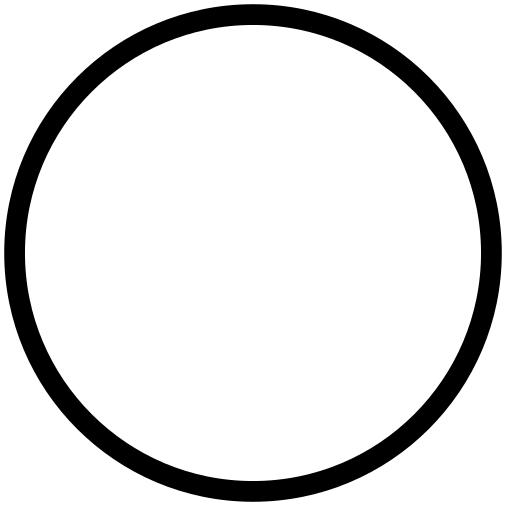
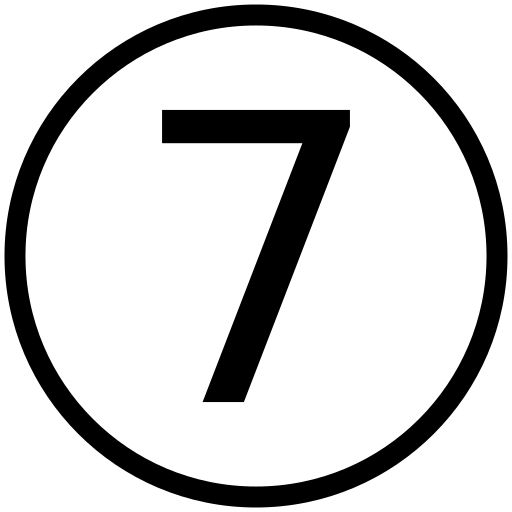
add: initial capability

diff --git a/www/app/index.js b/www/app/index.js
@@ -31,19 +31,24 @@ var app = {
   DATA_KEY: 'org.metaist.prng.data',
   store: null,
   options: {
-    debug: true
+    debug: true,
+    min: 1,
+    max: 10
   },
 
   // internal
-  // TODO
+  num: null,
 
   // DOM
-  // TODO
+  $num: null,
+  $txt_min: null,
+  $txt_max: null,
 
   init: function () {
     bindEvents(this, {
       'document': {'deviceready': this.ready},
-      'form input': {'change': this.change}
+      'form input': {'change': this.change},
+      'main': {'click': this.next}
     });
 
     if(!IS_CORDOVA) {
@@ -56,31 +61,46 @@ var app = {
 
   ready: function () {
     // Store DOM nodes
-    // TODO
+    this.$num = document.querySelector('#num');
+    this.$num_min = document.querySelector('#num_min');
+    this.$num_max = document.querySelector('#num_max');
 
     // Grab preferences
     if(IS_CORDOVA) {
       this.store = plugins.appPreferences;
       this.store.fetch(this.DATA_KEY).then(function (data) {
         Object.assign(this.options, data || {});
-        // TODO: update settings UI
+        this.$num_min.parentElement.MaterialTextfield.change(this.options.min);
+        this.$num_max.parentElement.MaterialTextfield.change(this.options.max);
         this.render();
       }.bind(this));
     }
 
-    return this;
+    return this.next();
   },
 
   change: function () {
-    // TODO: check values and update options
+    this.options.debug && console.log('.change()');
+    this.options.min = this.$num_min.value;
+    this.options.max = this.$num_max.value;
 
     if (IS_CORDOVA) {
       this.store.store(noop, noop, this.DATA_KEY, this.options);
     }//end if: options stored
-    return this;
+    return this.next();
+  },
+
+  next: function () {
+    this.options.debug && console.log('.next()');
+    var min = Math.ceil(this.options.min);
+    var max = Math.floor(this.options.max);
+    this.num = Math.floor(Math.random() * (max - min + 1)) + min;
+    return this.render();
   },
 
   render: function () {
+    this.options.debug && console.log('.render()');
+    this.$num.innerText = this.num;
     return this;
   }
 };

diff --git a/www/index.html b/www/index.html
@@ -26,6 +26,27 @@
         <span class="mdl-layout-title">PRNG</span>
 
         <form id="options" action="#">
+          <p>Pick a number between two given numbers.</p>
+
+          <div class="mdl-textfield mdl-js-textfield
+            mdl-textfield--floating-label">
+            <input class="mdl-textfield__input" type="number" min="0"
+              pattern="-?[0-9]*(\.[0-9]+)?" id="num_min" value="1" />
+            <label class="mdl-textfield__label" for="num_min">
+              Min
+            </label>
+            <span class="mdl-textfield__error">Input is not a number!</span>
+          </div>
+
+          <div class="mdl-textfield mdl-js-textfield
+            mdl-textfield--floating-label">
+            <input class="mdl-textfield__input" type="number" min="1"
+              pattern="-?[0-9]*(\.[0-9]+)?" id="num_max" value="10" />
+            <label class="mdl-textfield__label" for="num_max">
+              Max
+            </label>
+            <span class="mdl-textfield__error">Input is not a number!</span>
+          </div>
         </form>
 
         <footer>
@@ -36,12 +57,13 @@
             </a>
           </nav>
 
-          Idea by PLACEHOLDER<br />
+          Idea by Harold Zazula<br />
           App by <a href="http://metaist.com">Metaist LLC</a>
         </footer>
 
       </div>
       <main class="mdl-layout__content page-content">
+        <div id="num" class="center-center"></div>
       </main>
     </div>
 

diff --git a/www/app/index.css b/www/app/index.css
@@ -73,3 +73,7 @@ footer a {
   text-align: center;
   vertical-align: center;
 }
+
+#num {
+  font-size: 35vmin;
+}
